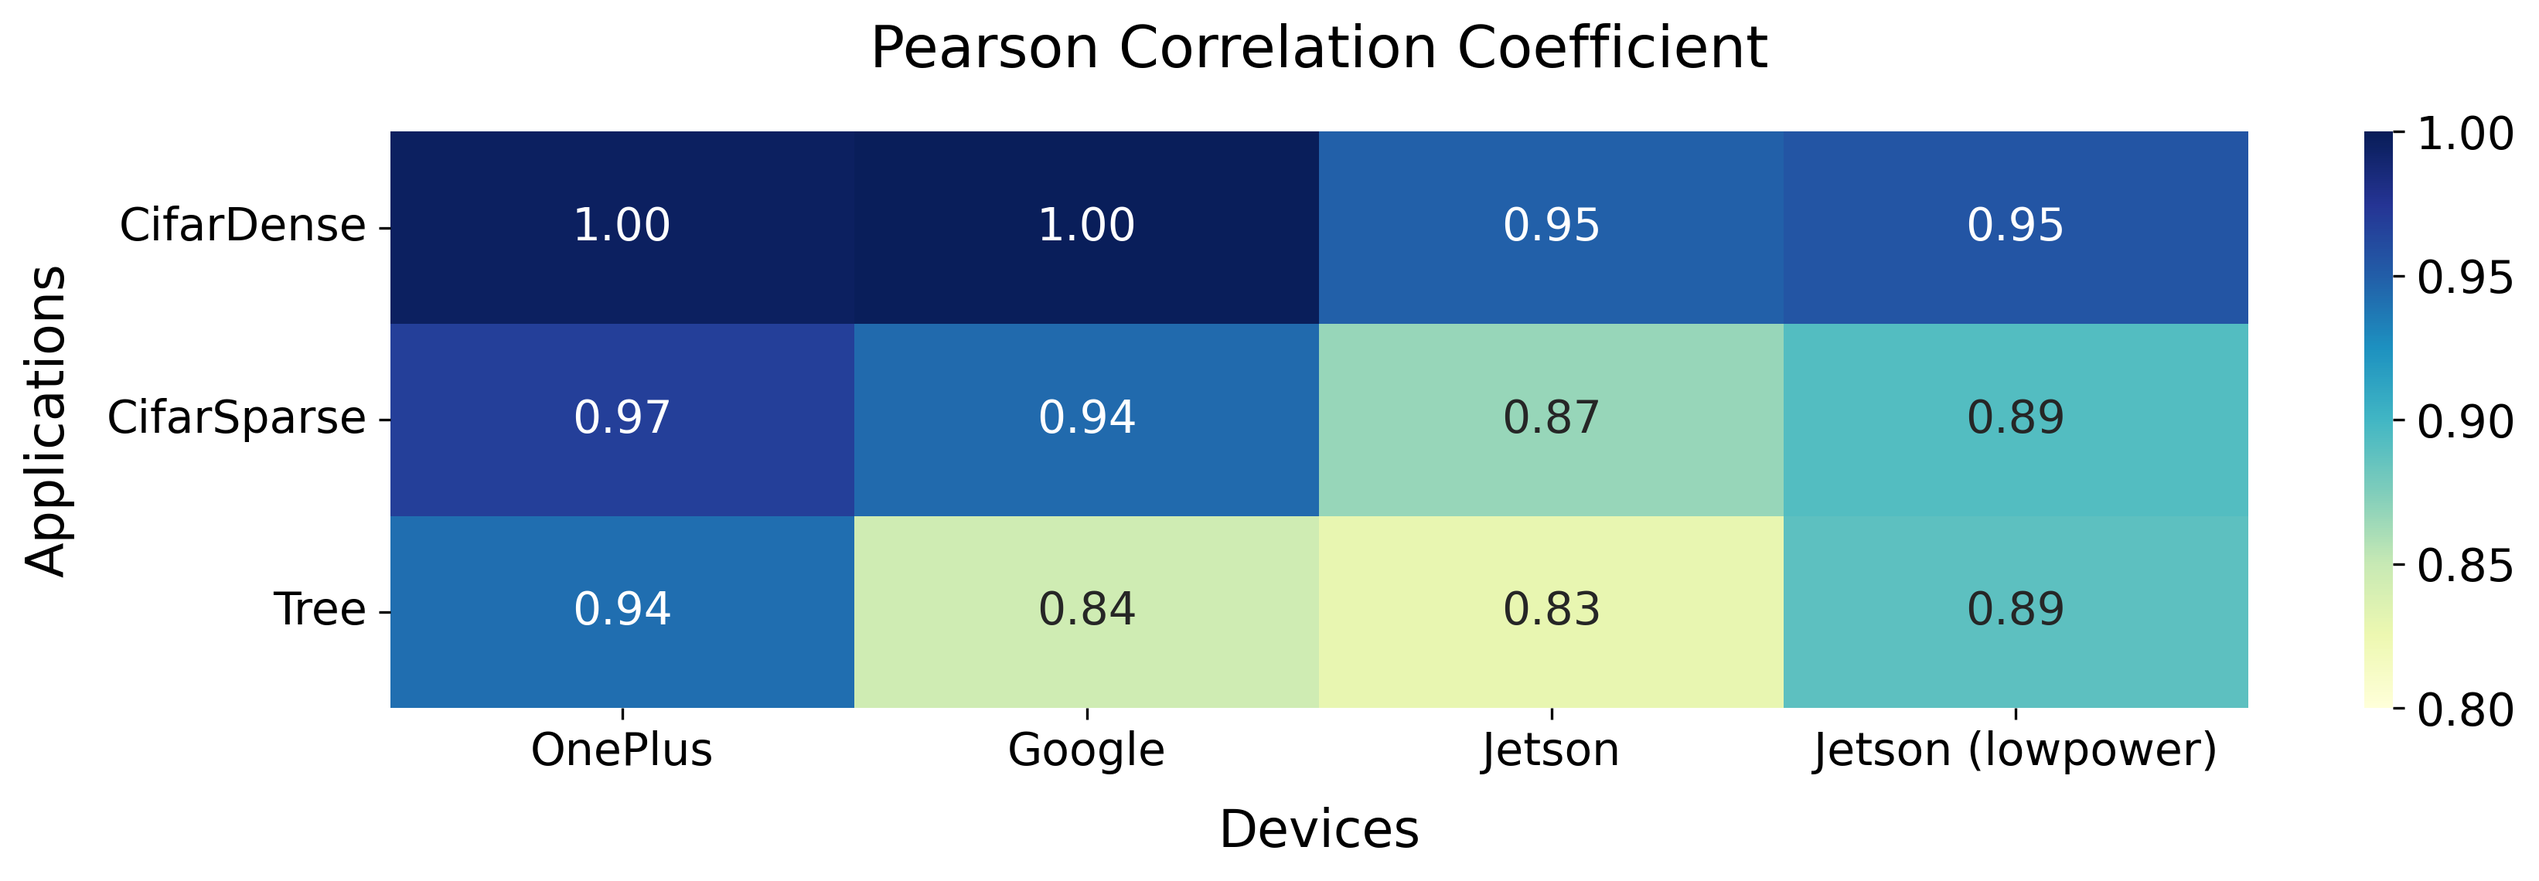
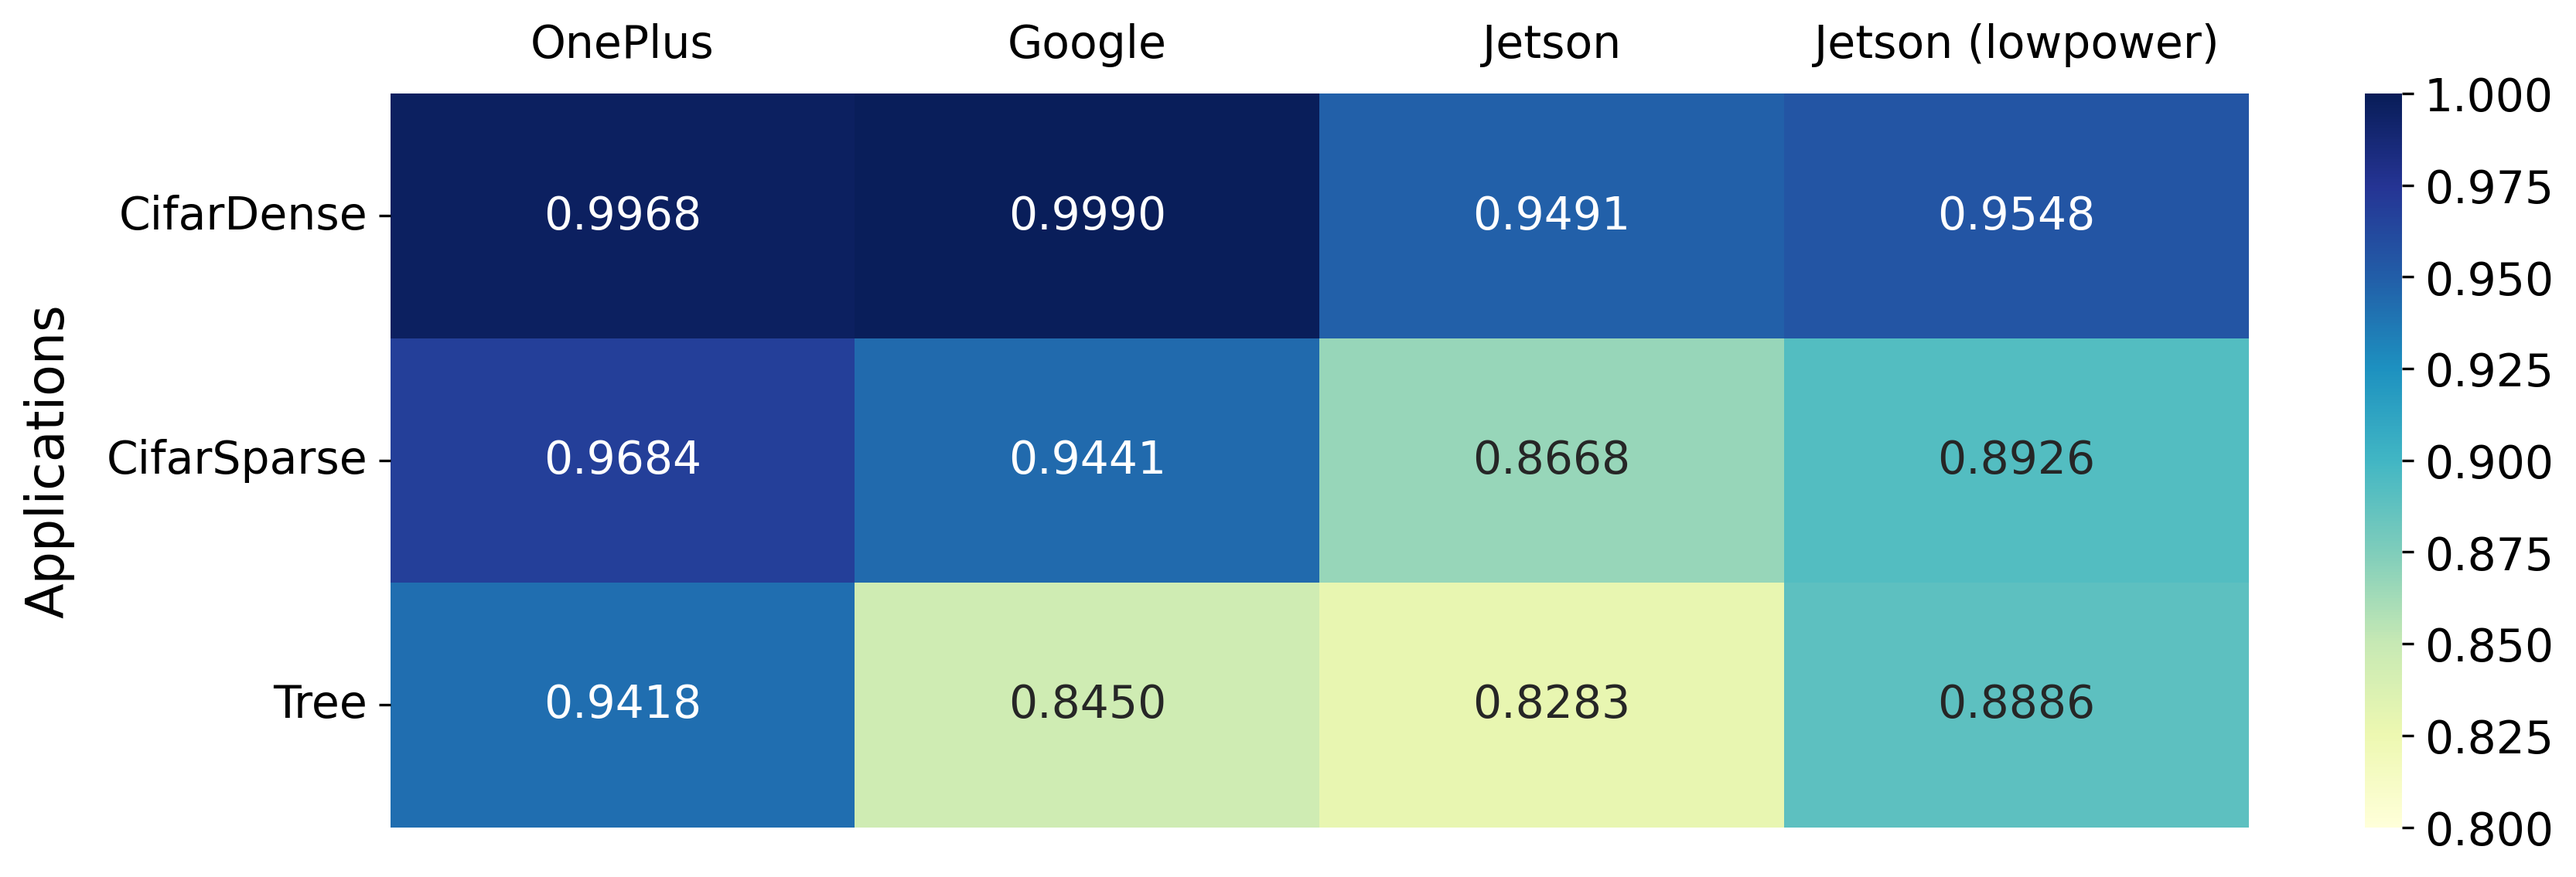
sa

diff --git a/scripts/paper/figure_8_make_heatmap_all.py b/scripts/paper/figure_8_make_heatmap_all.py
@@ -187,7 +187,7 @@ def plot_combined_ratio_heatmaps(ratios, titles, out_folder):
         )
         
         axs[i].set_xticks(np.arange(len(available_cores)))
-        axs[i].set_xticklabels(available_cores, rotation=45, ha="right")
+        axs[i].set_xticklabels(available_cores, rotation=0, ha="right")
         axs[i].set_yticks(np.arange(len(ratio_df.index)))
         axs[i].set_yticklabels(ratio_df.index.astype(str))
         
@@ -307,7 +307,7 @@ def plot_device_aggregated_heatmaps(device_ratios, device_names, out_folder):
     cbar.set_label("Fully/Normal Ratio", fontsize=18)
     cbar.ax.tick_params(labelsize=16)  # Larger tick labels on colorbar
     
-    plt.suptitle("Fully/Normal Execution Time Ratio by Device", fontsize=22)
+    # plt.suptitle("Fully/Normal Execution Time Ratio by Device", fontsize=22)
     plt.tight_layout(rect=[0, 0, 0.92, 0.95])
     
     outpath = os.path.join(out_folder, "device_aggregated_heatmaps.png")

diff --git a/scripts/paper/correlation_heatmap.py b/scripts/paper/correlation_heatmap.py
@@ -37,16 +37,20 @@ ax = sns.heatmap(
     cmap="YlGnBu",
     vmin=0.8,
     vmax=1.0,
-    xticklabels=devices,
+    xticklabels=False,  # Remove x-axis labels
     yticklabels=apps,
     fmt=".4f",
     annot_kws={"size": 14},
 )
 
 # Add titles and labels
-ax.set_title("Pearson Correlation Coefficient", fontsize=18, pad=20)
-ax.set_xlabel("Devices", fontsize=16, labelpad=10)
+# ax.set_title("Pearson Correlation Coefficient", fontsize=18, pad=20)
+# ax.set_xlabel("Devices", fontsize=16, labelpad=10)
 ax.set_ylabel("Applications", fontsize=16, labelpad=10)
+
+# Add device labels above the heatmap
+for i, device in enumerate(devices):
+    ax.text(i + 0.5, -0.2, device, ha='center', va='center', fontsize=14)
 
 # Adjust tick labels
 plt.xticks(fontsize=14, rotation=0, ha="center")

diff --git a/scripts/paper/03_overall_speedup.py b/scripts/paper/03_overall_speedup.py
@@ -121,7 +121,7 @@ for app in apps:
     multiplier += 1
 
 # Add labels and title
-ax.set_title("Speedup vs. Best Baseline by Device and Application")
+# ax.set_title("Speedup vs. Best Baseline by Device and Application")
 ax.set_xticks(x + width)
 ax.set_xticklabels([device_names.get(d, d) for d in devices])
 ax.set_ylabel("Speedup (×)")
